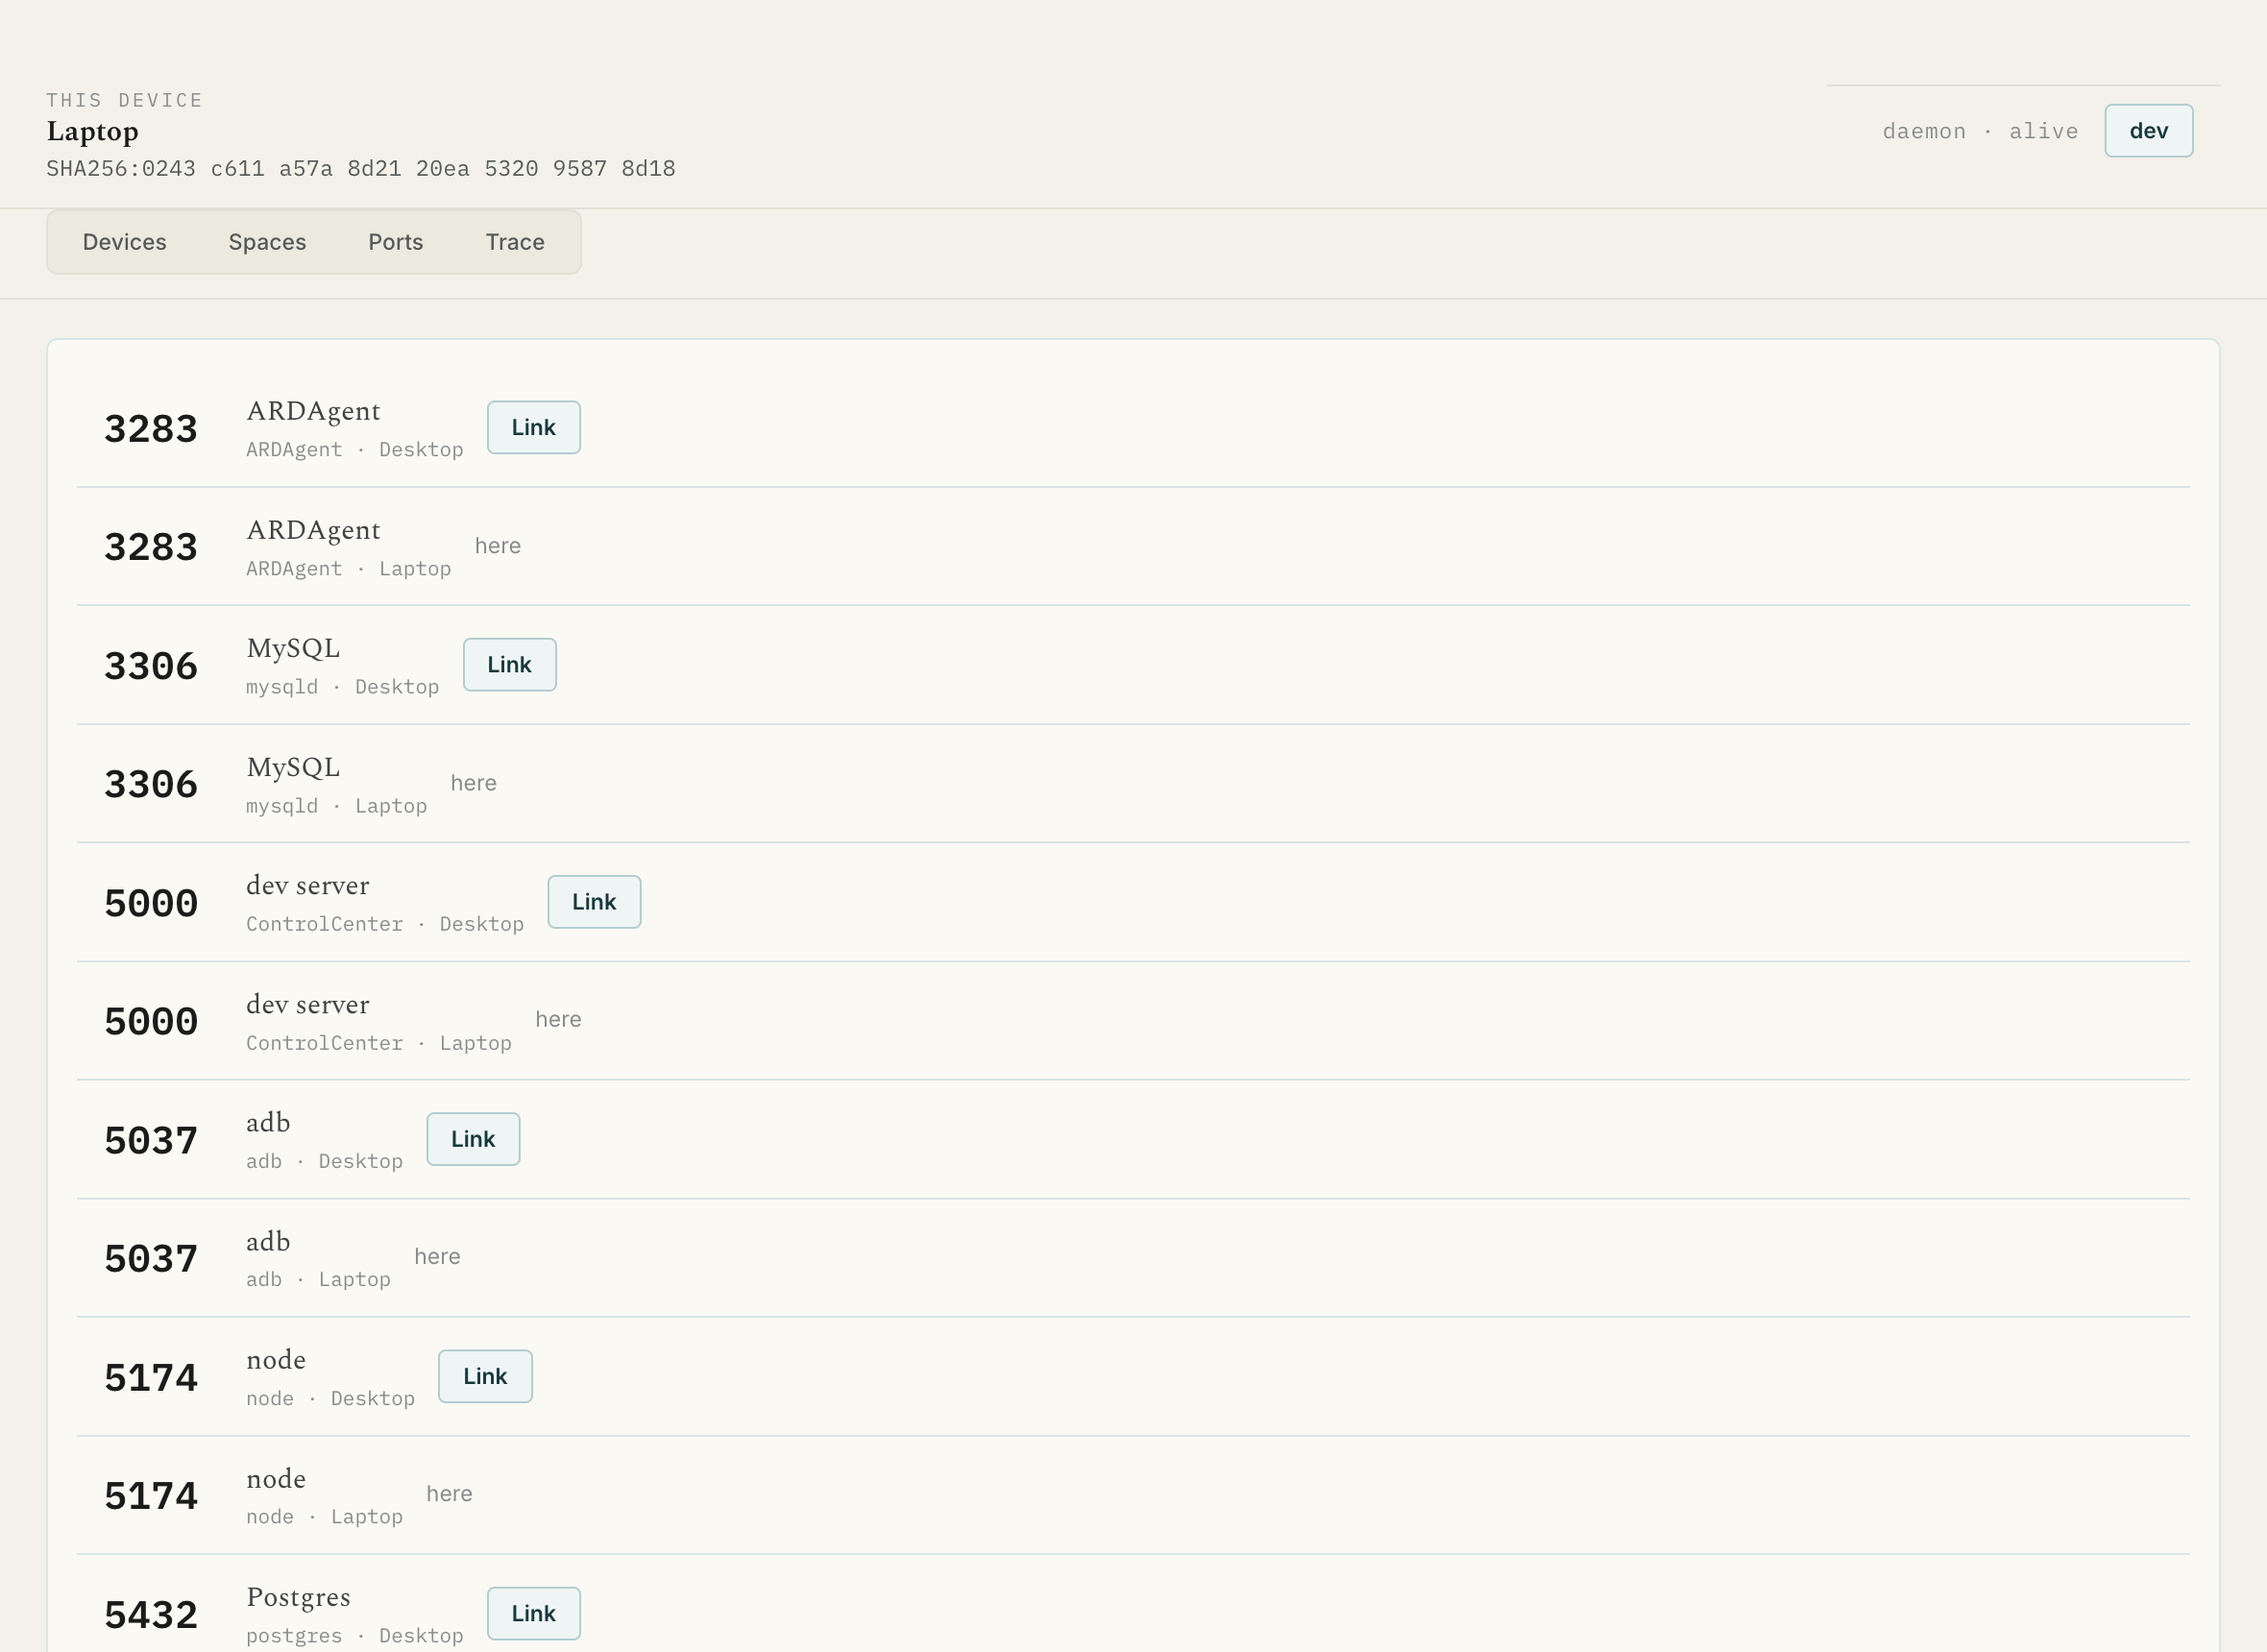
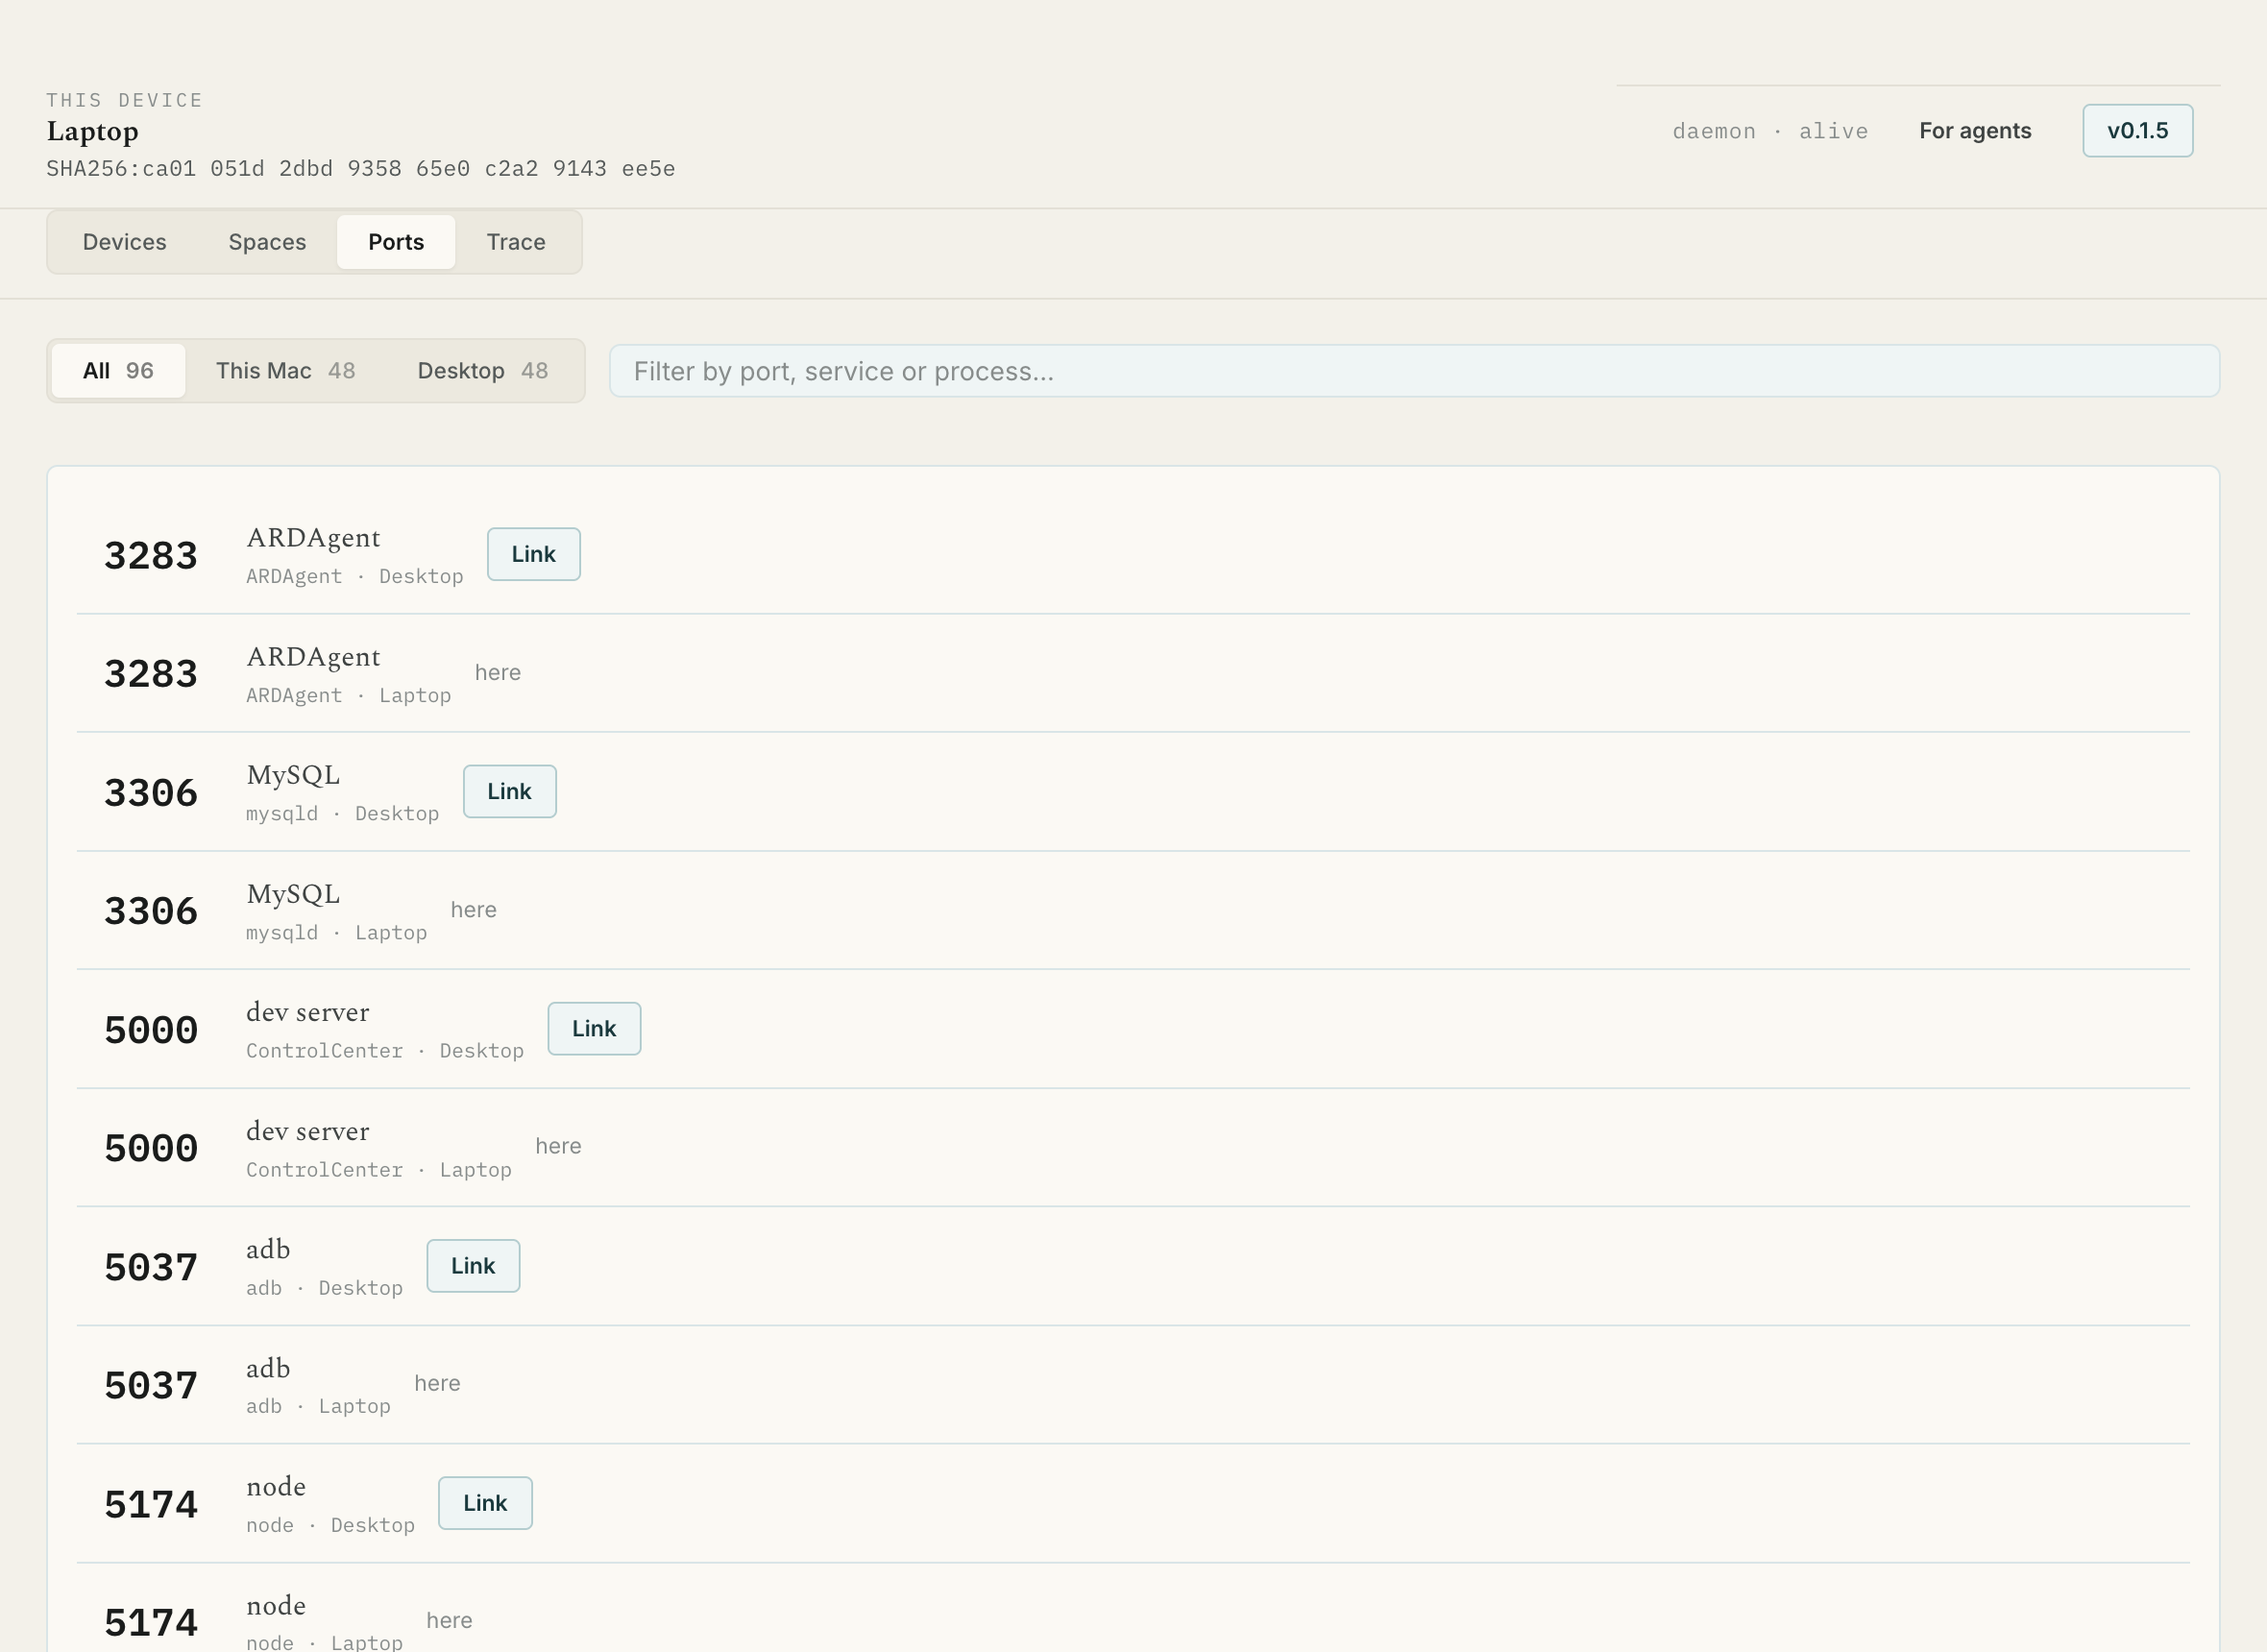
Update for v0.1.5
The page was still advertising v0.1.3 — it never caught up with 0.1.4 — so
the badge, the structured data, the download table and ibeji.md all named a
release two behind the one being installed.

New screenshots, taken against a live pair on this build. They show what
changed: the selected tab is now actually highlighted, Port Lens splits into
All / This Mac / the other machine with counts and a filter, and every trace
row carries a chevron and opens onto the payload the daemon recorded. The
captions and alt text describe what is now on screen rather than what used to
be.

ibeji.md gains the commands agents could not previously reach: `ibeji pair`
for terminal-only onboarding, `ibeji spaces create` and friends, and
`ibeji prompts` / `ibeji rules` for the permission engine. It still says
plainly that a human has to compare the six digits, and now says why —
that comparison is what proves no machine in the middle substituted its key.

Added a tenth feature card for CLI parity, since "all of it from the terminal"
is the thing that makes a headless Mac or an agent usable, and nothing on the
page said it.

diff --git a/public/index.html b/public/index.html
@@ -56,7 +56,7 @@
   "applicationCategory": "DeveloperApplication",
   "applicationSubCategory": "Developer Tools",
   "operatingSystem": "macOS 12 or later",
-  "softwareVersion": "0.1.3",
+  "softwareVersion": "0.1.5",
   "url": "https://ibeji.devferanmi.xyz/",
   "downloadUrl": "https://github.com/spiderocious/ibeji/releases/latest",
   "installUrl": "https://ibeji.devferanmi.xyz/#install",
@@ -199,7 +199,7 @@
       "name": "Is it finished?",
       "acceptedAnswer": {
         "@type": "Answer",
-        "text": "No. It is v0.1.3 and it is young — the version number is honest about that. Pairing, spaces, ports, exec, trace, the CLI and the MCP server all work, and every release is tested by pairing two machines and running the whole flow. Expect rough edges, and expect them to be fixed in the open."
+        "text": "No. It is v0.1.5 and it is young — the version number is honest about that. Pairing, spaces, ports, exec, trace, the CLI and the MCP server all work, and every release is tested by pairing two machines and running the whole flow. Expect rough edges, and expect them to be fixed in the open."
       }
     },
     {
@@ -242,7 +242,7 @@
 <!-- ------------------------------------------------------------- hero -- -->
 <section class="hero">
   <div class="wrap">
-    <span class="badge"><span class="dot"></span> v0.1.3 · macOS · free &amp; open source</span>
+    <span class="badge"><span class="dot"></span> v0.1.5 · macOS · free &amp; open source</span>
 
     <h1>Two Macs, working as one pair.</h1>
 
@@ -387,9 +387,19 @@
       <article class="feat rise">
         <div class="feat-ico"><svg viewBox="0 0 24 24" fill="none" stroke="currentColor" stroke-width="1.6"><rect x="3" y="3" width="7" height="7" rx="1.4"/><rect x="14" y="3" width="7" height="7" rx="1.4"/><rect x="3" y="14" width="7" height="7" rx="1.4"/><path d="M14 17.5h7M17.5 14v7"/></svg></div>
         <h3>Built for agents</h3>
-        <p>An MCP server ships with the app. Your coding agent can list, read,
-        grep, write and run on the other machine — through the same permission
-        gate you use, with the same trace behind it.</p>
+        <p>An MCP server ships with the app, and the window hands you the one
+        command that registers it. Your agent can then list, read, grep, write
+        and run on the other machine — through the same permission gate you
+        use, with the same trace behind it.</p>
+      </article>
+
+      <article class="feat rise">
+        <div class="feat-ico"><svg viewBox="0 0 24 24" fill="none" stroke="currentColor" stroke-width="1.6"><circle cx="12" cy="12" r="9"/><path d="M12 7v5l3.5 2"/></svg></div>
+        <h3>All of it from the terminal</h3>
+        <p>Pair two Macs, create spaces, approve requests, open tunnels — every
+        one of them works from <code>ibeji</code> as well as the window, so a
+        headless Mac or an agent is never stuck waiting for someone to click
+        something.</p>
       </article>
 
       <article class="feat rise">
@@ -506,28 +516,28 @@
         <div class="shot-frame">
           <div class="shot-bar"><i></i><i></i><i></i><span class="ttl">Ports</span></div>
           <img src="shots/ports.png" width="2360" height="1720" loading="lazy" decoding="async"
-               alt="The Ports tab listing ports on both machines — ARDAgent on 3283, MySQL on 3306, a dev server on 5000, adb on 5037, node on 5174 — each remote row offering a Link button to open a tunnel." />
+               alt="The Ports tab with All, This Mac and Desktop scopes showing counts, a filter field, and ports on both machines — ARDAgent on 3283, MySQL on 3306, a dev server on 5000 — each remote row offering a Link button to open a tunnel." />
         </div>
-        <p class="shot-cap"><b>Port Lens.</b> Both machines' listening ports in
-        one list. <b>Link</b> opens a tunnel; <b>here</b> means it is already
-        yours.</p>
+        <p class="shot-cap"><b>Port Lens.</b> Split by machine, with counts, so you
+        can tell whose port a <b>Link</b> button will tunnel. Filter by port,
+        service or process.</p>
       </div>
 
       <div class="rise">
         <div class="shot-frame">
           <div class="shot-bar"><i></i><i></i><i></i><span class="ttl">Trace</span></div>
           <img src="shots/trace.png" width="2360" height="1720" loading="lazy" decoding="async"
-               alt="The Trace tab showing timestamped daemon events — api.pair.start, api.pair.confirm, api.spaces.create and three api.exec calls with durations — and a filter toggle between Everything and Failures only." />
+               alt="The Trace tab showing timestamped daemon events — api.pair.start, api.pair.confirm, api.spaces.create and three api.exec calls with durations — each row expandable by a chevron, with an Everything and Failures only toggle and a search field." />
         </div>
-        <p class="shot-cap"><b>Trace.</b> What the daemon did, with durations.
-        <b>Failures only</b> is the first thing to press when something is
-        wrong.</p>
+        <p class="shot-cap"><b>Trace.</b> Every call with its duration. Open a row
+        to see exactly what it was called with and what came back; search
+        across all of it.</p>
       </div>
 
       <div class="rise">
         <div class="shot-frame">
           <div class="shot-bar"><i></i><i></i><i></i><span class="ttl">Spaces</span></div>
-          <img src="shots/spaces.png" width="2360" height="619" loading="lazy" decoding="async"
+          <img src="shots/spaces.png" width="2360" height="747" loading="lazy" decoding="async"
                alt="The Spaces tab showing a shared space named atlas marked IN-SYNC, with its folder path and a line reading master, 2 files, 25 B." />
         </div>
         <p class="shot-cap"><b>Spaces.</b> A folder on both disks, its role, and
@@ -718,27 +728,27 @@ Notes:
         <tbody>
           <tr>
             <td>App · Apple silicon</td>
-            <td class="mono">Ibeji-0.1.3-arm64.dmg</td>
+            <td class="mono">Ibeji-0.1.5-arm64.dmg</td>
             <td>M1 and later</td>
-            <td><a href="https://github.com/spiderocious/ibeji/releases/latest/download/Ibeji-0.1.3-arm64.dmg">Download</a></td>
+            <td><a href="https://github.com/spiderocious/ibeji/releases/latest/download/Ibeji-0.1.5-arm64.dmg">Download</a></td>
           </tr>
           <tr>
             <td>App · Intel</td>
-            <td class="mono">Ibeji-0.1.3.dmg</td>
+            <td class="mono">Ibeji-0.1.5.dmg</td>
             <td>Intel Macs</td>
-            <td><a href="https://github.com/spiderocious/ibeji/releases/latest/download/Ibeji-0.1.3.dmg">Download</a></td>
+            <td><a href="https://github.com/spiderocious/ibeji/releases/latest/download/Ibeji-0.1.5.dmg">Download</a></td>
           </tr>
           <tr>
             <td>CLI only · Apple silicon</td>
-            <td class="mono">ibeji-cli-0.1.3-darwin-arm64.tar.gz</td>
+            <td class="mono">ibeji-cli-0.1.5-darwin-arm64.tar.gz</td>
             <td>Headless use</td>
-            <td><a href="https://github.com/spiderocious/ibeji/releases/latest/download/ibeji-cli-0.1.3-darwin-arm64.tar.gz">Download</a></td>
+            <td><a href="https://github.com/spiderocious/ibeji/releases/latest/download/ibeji-cli-0.1.5-darwin-arm64.tar.gz">Download</a></td>
           </tr>
           <tr>
             <td>CLI only · Intel</td>
-            <td class="mono">ibeji-cli-0.1.3-darwin-x64.tar.gz</td>
+            <td class="mono">ibeji-cli-0.1.5-darwin-x64.tar.gz</td>
             <td>Headless use</td>
-            <td><a href="https://github.com/spiderocious/ibeji/releases/latest/download/ibeji-cli-0.1.3-darwin-x64.tar.gz">Download</a></td>
+            <td><a href="https://github.com/spiderocious/ibeji/releases/latest/download/ibeji-cli-0.1.5-darwin-x64.tar.gz">Download</a></td>
           </tr>
           <tr>
             <td>Checksums</td>
@@ -922,7 +932,7 @@ Notes:
       <details class="qa">
         <summary>Is it finished?</summary>
         <div class="qa-body">
-          <p>No. It is v0.1.3 and it is young — the version number is honest
+          <p>No. It is v0.1.5 and it is young — the version number is honest
           about that. Pairing, spaces, ports, exec, trace, the CLI and the MCP
           server all work, and every release is tested by pairing two machines
           and running the whole flow. Expect rough edges, and expect them to be

diff --git a/public/ibeji.md b/public/ibeji.md
@@ -9,7 +9,7 @@ This file is the agent-facing version of <https://ibeji.devferanmi.xyz>. It is t
 read if you are an AI agent installing, operating or debugging Ìbejì.
 
 - Source: <https://github.com/spiderocious/ibeji>
-- Current version: **v0.1.3**
+- Current version: **v0.1.5**
 - Platform: **macOS only** (both machines)
 - Network: **LAN only** — no accounts, no cloud, no relay, no internet traffic
 
@@ -62,7 +62,21 @@ paired" is expected and not an error.
 ## Pairing — a human has to do this
 
 Pairing requires someone to compare six digits on two screens at once. **Do not
-attempt to automate it.** Tell the user to:
+attempt to automate it**: the comparison is what proves no machine in the middle
+substituted its own key.
+
+From the terminal (v0.1.5 and later), on the first Mac:
+
+```sh
+ibeji pair                      # what is on the LAN, and this Mac's address
+ibeji pair 192.168.1.39:7749    # start a ceremony; prints the six digits
+```
+
+The other Mac raises its own ceremony in response — check it with
+`ibeji pair status` there. Once a human confirms the digits match, run
+`ibeji pair confirm` on **both** machines. `ibeji pair cancel` abandons it.
+
+Or through the window:
 
 1. Open Ìbejì on both Macs.
 2. Wait for each to appear in the other's list, or press **Add by IP address**
@@ -101,6 +115,16 @@ at that machine — say so rather than retrying in a loop.
 
 A human can remember a rule for one exact command in one working directory from
 one device, after which matching calls run without prompting.
+
+Both sides of this are on the CLI:
+
+```sh
+ibeji prompts                           # what is waiting for approval here
+ibeji prompts allow <id> [--remember]
+ibeji prompts deny <id>
+ibeji rules                             # remembered rules, and how often each fired
+ibeji rules revoke <id>
+```
 
 ---
 
@@ -199,6 +223,22 @@ Guidance for agents:
 ---
 
 ## Shared spaces
+
+Create one on each machine, naming which side is master:
+
+```sh
+# on the machine that owns the git credentials
+ibeji spaces create atlas ~/projects/atlas --role master
+# on the other one
+ibeji spaces create atlas ~/projects/atlas --role replica
+
+ibeji spaces                    # list them, with sync state and conflicts
+ibeji spaces wait atlas         # block until it converges
+ibeji spaces pause|resume|leave|delete atlas
+```
+
+`--mode mirror` makes it one-way, master to replica only.
+
 
 A space is a named folder present on both machines as **real files on disk**,
 not a network mount.
